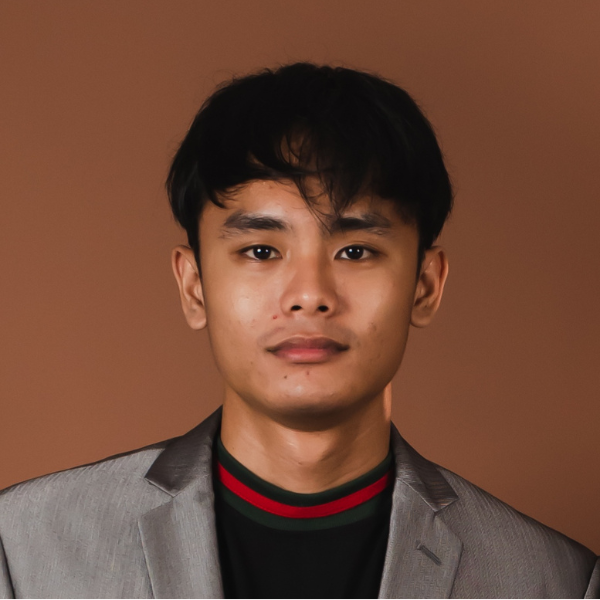
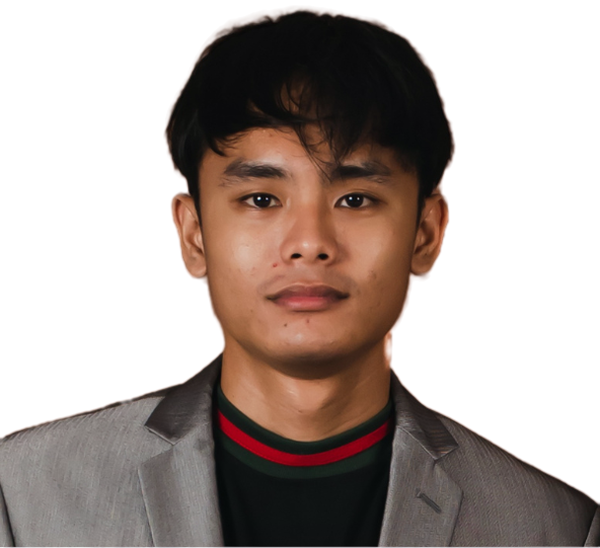
Cut out photo backgrounds, enlarge about photo, add blue scroll-vibe effect
- images/Herohelary.png: transparent cut-out (RVM matte) — stands cleanly in front of PORTFOLIO
- images/abouthelary.png: transparent cut-out replacing 2ndimage helary.jpeg (original kept)
- about photo enlarged (480px -> up to 680px, wider grid column)
- scroll-driven blue duotone on the 2nd photo: peaks when centered, returns to normal
- soft blue glow behind the figure tied to the same scroll progress

diff --git a/index.html b/index.html
@@ -102,7 +102,7 @@ nav.scrolled{background:rgba(244,241,236,.85);backdrop-filter:blur(14px);border-
 .stat-label{margin-top:.6rem;font-size:.78rem;font-weight:700;letter-spacing:.12em;text-transform:uppercase;color:var(--muted)}
 
 /* ============ ABOUT ============ */
-.about-grid{display:grid;grid-template-columns:1.15fr .85fr;gap:clamp(2rem,6vw,5rem);align-items:center}
+.about-grid{display:grid;grid-template-columns:1fr minmax(0,1.12fr);gap:clamp(2rem,5vw,4rem);align-items:center}
 .about-h{font-family:'Anton';font-size:clamp(2rem,4.6vw,3.9rem);line-height:1.05;text-transform:uppercase}
 .about-h em{font-style:normal;color:var(--red)}
 .about-txt{margin-top:1.6rem;color:#3d3d42;line-height:1.8;font-size:clamp(.95rem,1.25vw,1.05rem)}
@@ -222,9 +222,21 @@ footer a:hover{color:var(--red)}
   font-weight:600;font-size:.85rem;text-align:center;padding:1rem}
 
 /* ABOUT: cut-out portrait with callout lines + dark stats card */
-.about-cut{position:relative;max-width:480px;margin-inline:auto;display:flex;justify-content:center;align-items:flex-end}
+.about-cut{position:relative;max-width:min(680px,58vw);margin-inline:auto;display:flex;justify-content:center;align-items:flex-end}
 .about-cut .cut-img{position:relative;z-index:2;width:100%;height:auto;display:block;
   filter:drop-shadow(0 24px 36px rgba(12,12,14,.3))}
+
+/* ---- 2nd photo: scroll-driven "blue vibe" (peaks mid-scroll, back to normal) ---- */
+.cut-stack{position:relative;display:block;width:100%}
+.cut-stack::before{content:'';position:absolute;inset:-8% -12%;z-index:0;border-radius:50%;pointer-events:none;
+  background:radial-gradient(closest-side,rgba(47,125,255,.55),rgba(47,125,255,0) 72%);
+  filter:blur(10px);opacity:calc(var(--bp,0) * .85)}
+.blue-gel{position:absolute;inset:0;z-index:3;pointer-events:none;
+  background:linear-gradient(180deg,#1d5dff 0%,#2f7dff 45%,#8fc0ff 100%);
+  -webkit-mask-image:url('images/abouthelary.png');mask-image:url('images/abouthelary.png');
+  -webkit-mask-size:100% 100%;mask-size:100% 100%;
+  -webkit-mask-repeat:no-repeat;mask-repeat:no-repeat;
+  mix-blend-mode:color;opacity:calc(var(--bp,0) * .92)}
 .about-cut.is-empty{min-height:420px;align-items:center;border:2px dashed rgba(12,12,14,.25);border-radius:22px}
 .about-cut.is-empty::after{content:'📷 add mark-about.png (cut-out, no background)';color:rgba(12,12,14,.45);
   font-weight:600;font-size:.85rem;text-align:center;padding:1rem}
@@ -312,11 +324,11 @@ footer a:hover{color:var(--red)}
     </div>
   </div>
 
-  <!-- 🔁 PHOTO 1 (top): a cut-out photo with NO background (transparent PNG).
-       Save it next to this file as mark-hero.png. It stands in front of the giant PORTFOLIO word. -->
+  <!-- 🔁 PHOTO 1 (top): cut-out photo with NO background (transparent PNG) — images/Herohelary.png.
+       It stands in front of the giant PORTFOLIO word. -->
   <div class="hero-person">
     <img src="images/Herohelary.png" alt="Mark Helary Diaz"
-         onerror="if(!this.dataset.t){this.dataset.t=1;this.src='mark-hero.jpg';}else{this.parentElement.classList.add('is-empty');this.remove();}">
+         onerror="this.parentElement.classList.add('is-empty');this.remove();">
   </div>
 
   <div class="hero-foot">
@@ -364,11 +376,14 @@ footer a:hover{color:var(--red)}
       </div>
     </div>
     <div class="about-photo-wrap reveal d2">
-      <!-- 🔁 PHOTO 2 (below): another cut-out photo with NO background (transparent PNG).
-           Save it next to this file as mark-about.png. -->
+      <!-- 🔁 PHOTO 2: cut-out photo with NO background (transparent PNG) — images/abouthelary.png.
+           The blue-gel layer turns the photo blue while it scrolls past, then it returns to normal. -->
       <div class="about-cut">
-        <img class="cut-img" src="images/2ndimage helary.jpeg" alt="Mark Helary Diaz" loading="lazy"
-             onerror="if(!this.dataset.t){this.dataset.t=1;this.src='mark-about.jpg';}else{this.parentElement.classList.add('is-empty');this.remove();}">
+        <div class="cut-stack">
+          <img class="cut-img" src="images/abouthelary.png" alt="Mark Helary Diaz" loading="lazy"
+               onerror="if(!this.dataset.t){this.dataset.t=1;this.src='images/2ndimage helary.jpeg';}else{this.closest('.about-cut').classList.add('is-empty');this.remove();}">
+          <div class="blue-gel" aria-hidden="true"></div>
+        </div>
         <span class="callout callout-a">Automation mind</span>
         <span class="callout callout-b">Creative eye</span>
       </div>
@@ -608,6 +623,23 @@ const counters = new IntersectionObserver(es => es.forEach(e => {
   counters.unobserve(el);
 }), { threshold: .5 });
 document.querySelectorAll('[data-count]').forEach(el => counters.observe(el));
+
+/* ===== 2nd photo: scroll-driven blue vibe (peaks when centered, returns to normal) ===== */
+const aboutCut = document.querySelector('.about-cut');
+const reduceMotion = matchMedia('(prefers-reduced-motion: reduce)').matches;
+function blueVibe() {
+  if (!aboutCut || reduceMotion) return;
+  const r = aboutCut.getBoundingClientRect();
+  const vh = innerHeight;
+  // travel: -1 when the photo is just entering at the bottom, +1 when it's leaving at the top
+  const travel = (vh / 2 - (r.top + r.height / 2)) / ((vh + r.height) / 2);
+  const bell = Math.max(0, 1 - Math.abs(travel));   // 0 at the edges, 1 when centered
+  const p = bell * bell * (3 - 2 * bell);           // smoothstep
+  aboutCut.style.setProperty('--bp', p.toFixed(3));
+}
+addEventListener('scroll', () => requestAnimationFrame(blueVibe), { passive: true });
+addEventListener('resize', blueVibe);
+blueVibe();
 
 /* ===== duplicate marquee tracks for seamless infinite loop ===== */
 document.querySelectorAll('.loop, #projTrack').forEach(t => t.innerHTML += t.innerHTML);
